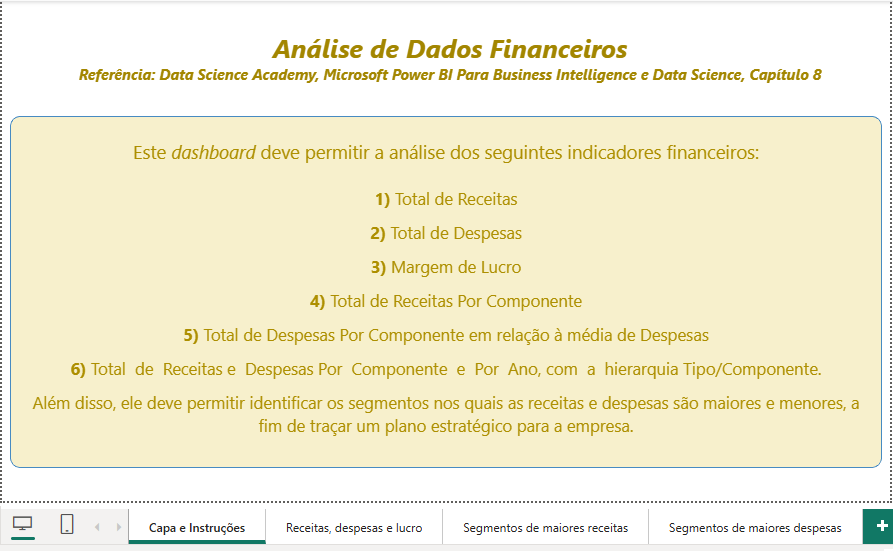
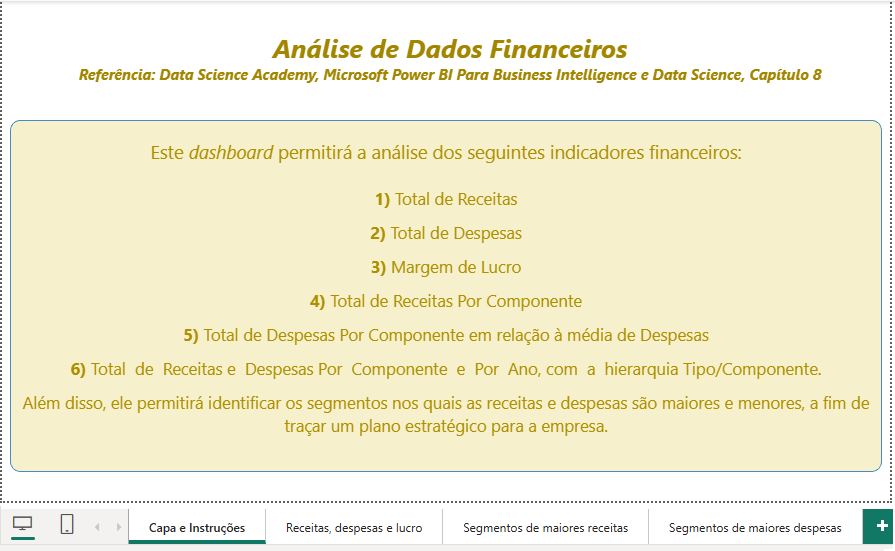
Add files via upload

diff --git a/7__Analise_de_Dados_Financeiros/README.md b/7__Analise_de_Dados_Financeiros/README.md
@@ -7,7 +7,7 @@ Relatório desenvolvido no **Microsoft Power BI** para análise de receitas, des
 
 ### 1. Capa e Instruções
 
-Tela inicial do projeto, com a apresentação da análise financeira, seu escopo e orientações para navegação entre os painéis. Também destaca a utilização da análise de segmentação como apoio ao planejamento estratégico.
+Tela inicial do projeto, com a apresentação da análise financeira e seu escopo. Também destaca a utilização da análise de segmentação como apoio ao planejamento estratégico.
 
 ![Capa e Instruções](print_capa_e_instrucoes.png)
 
